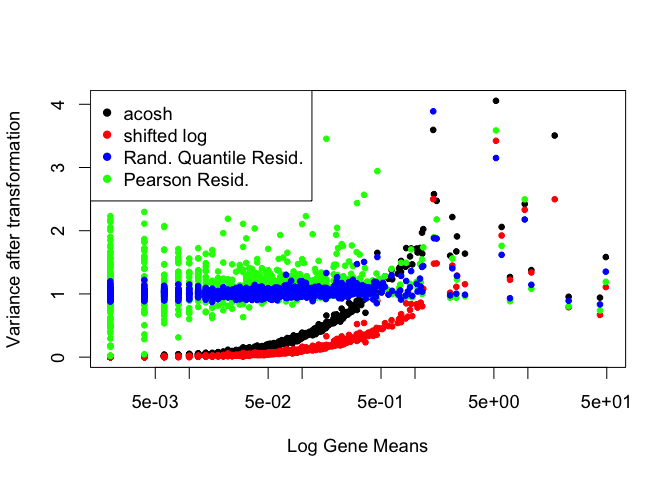
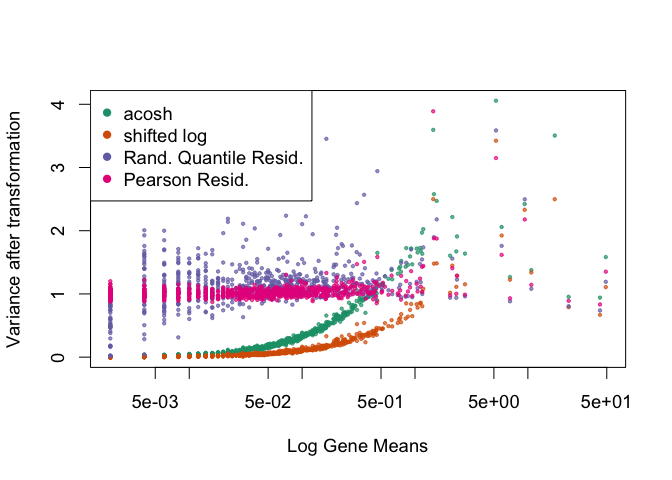
Update colors and size of plot

diff --git a/README.md b/README.md
@@ -63,7 +63,7 @@ assay(sce_red, "shifted_log") <- shifted_log_transform(sce_red, overdispersion =
 # For large datasets, we can also do the processing without 
 # loading the full dataset into memory (on_disk = TRUE)
 assay(sce_red, "rand_quant") <- residual_transform(sce_red, "randomized_quantile", on_disk = FALSE)
-assay(sce_red, "pearson") <- residual_transform(sce_red, "pearson", on_disk = FALSE)
+assay(sce_red, "pearson") <- residual_transform(sce_red, "pearson", clipping = TRUE, on_disk = FALSE)
 ```
 
 Finally, we compare the variance of the genes after transformation using
@@ -72,16 +72,16 @@ a scatter plot
 ``` r
 par(pch = 20, cex = 1.15)
 mus <- rowMeans2(counts(sce_red))
-plot(mus, rowVars(assay(sce_red, "acosh")), log = "x", col = "black",
+plot(mus, rowVars(assay(sce_red, "acosh")), log = "x", col = "#1b9e77aa", cex = 0.6,
      xlab =  "Log Gene Means", ylab = "Variance after transformation")
-points(mus, rowVars(assay(sce_red, "shifted_log")), col = "red")
-points(mus, rowVars(assay(sce_red, "pearson")), col = "green")
-points(mus, rowVars(assay(sce_red, "rand_quant")), col = "blue")
+points(mus, rowVars(assay(sce_red, "shifted_log")), col = "#d95f02aa", cex = 0.6)
+points(mus, rowVars(assay(sce_red, "pearson")), col = "#7570b3aa", cex = 0.6)
+points(mus, rowVars(assay(sce_red, "rand_quant")), col = "#e7298aaa", cex = 0.6)
 legend("topleft", legend = c("acosh", "shifted log", "Rand. Quantile Resid.", "Pearson Resid."),
-       col = c("black", "red", "blue", "green"), pch = 16)
+       col = c("#1b9e77", "#d95f02", "#7570b3", "#e7298a"), pch = 16)
 ```
 
-<img src="man/figures/README-plotMeanVar-1.png" width="100%" />
+![](man/figures/README-plotMeanVar-1.png)<!-- -->
 
 # See also
 
@@ -131,8 +131,8 @@ sessionInfo()
 #>  [7] SummarizedExperiment_1.22.0 Biobase_2.52.0             
 #>  [9] GenomicRanges_1.44.0        GenomeInfoDb_1.28.0        
 #> [11] IRanges_2.26.0              S4Vectors_0.30.0           
-#> [13] BiocGenerics_0.38.0         MatrixGenerics_1.3.1       
-#> [15] matrixStats_0.59.0          transformGamPoi_0.1.0      
+#> [13] BiocGenerics_0.38.0         MatrixGenerics_1.5.1       
+#> [15] matrixStats_0.59.0          transformGamPoi_0.1.2      
 #> 
 #> loaded via a namespace (and not attached):
 #>  [1] httr_1.4.2                    bit64_4.0.5                  
@@ -161,7 +161,7 @@ sessionInfo()
 #> [47] compiler_4.1.0                rlang_0.4.11                 
 #> [49] grid_4.1.0                    RCurl_1.98-1.3               
 #> [51] rhdf5filters_1.4.0            rappdirs_0.3.3               
-#> [53] glmGamPoi_1.5.1               bitops_1.0-7                 
+#> [53] glmGamPoi_1.5.2               bitops_1.0-7                 
 #> [55] rmarkdown_2.9                 ExperimentHub_2.0.0          
 #> [57] DBI_1.1.1                     curl_4.3.1                   
 #> [59] R6_2.5.0                      knitr_1.33                   
